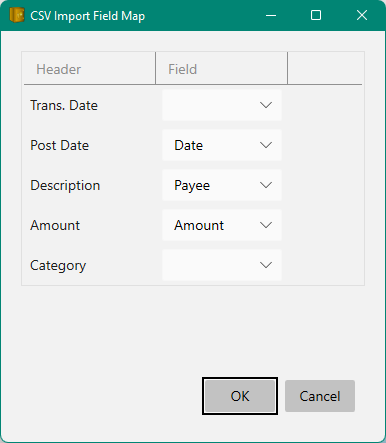
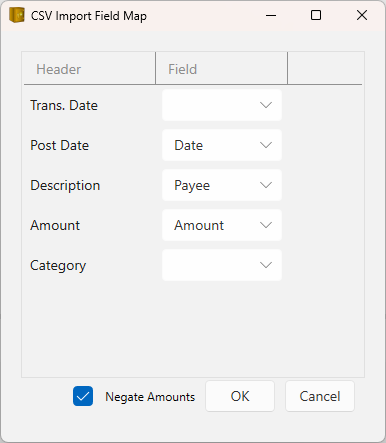
Feature: Add "Edit 8 Map..." menu item on account dialog context menu. Feature: Add "negate" button on Csv map dialog.

diff --git a/Source/WPF/MyMoney/View Selectors/AccountsControl.xaml b/Source/WPF/MyMoney/View Selectors/AccountsControl.xaml
@@ -84,6 +84,7 @@
         <CommandBinding  Command="local:AccountsControl.CommandExportAccount" Executed="OnExportAccount" CanExecute="CanExportAccount"/>
         <CommandBinding  Command="local:AccountsControl.CommandExportList" Executed="OnExportAccountList" />
         <CommandBinding  Command="local:AccountsControl.CommandImportCsv" Executed="OnImportAccountCsv" />
+        <CommandBinding  Command="local:AccountsControl.CommandEditCsvMapping" Executed="OnEditCsvMapping" CanExecute="HasCsvMapping" />
         <CommandBinding  Command="local:AccountsControl.CommandToggleClosedAccounts" Executed="OnToggleShowClosedAccounts" CanExecute="CanToggleShowClosedAccounts"/>
     </UserControl.CommandBindings>
 
@@ -118,12 +119,14 @@
                 <MenuItem AutomationProperties.AutomationId="ViewTransfersToThisAccount" Header="View _Transfers To This Account" Command="local:AccountsControl.CommandViewTransfers" />
                 <MenuItem AutomationProperties.AutomationId="Export" Header="E_xport Account..." Command="local:AccountsControl.CommandExportAccount"/>
                 <MenuItem AutomationProperties.AutomationId="ImportCsv" Header="_Import Csv..." Command="local:AccountsControl.CommandImportCsv"/>
+                <MenuItem AutomationProperties.AutomationId="EditCsvMapping" Header="Edit Csv _Mapping..." Command="local:AccountsControl.CommandEditCsvMapping"/>
+                
                 <Separator />
                 <MenuItem AutomationProperties.AutomationId="NewAccount" Header="_New Account..." Command="local:AccountsControl.CommandNewAccount" />
                 <MenuItem AutomationProperties.AutomationId="DownloadAccounts" Header="_Download Accounts..." Command="local:AccountsControl.CommandDownloadAccounts" />
                 <MenuItem AutomationProperties.AutomationId="NewLoan" Header="New _Loan..." Command="local:AccountsControl.CommandAddNewLoanAccount" />
                 <MenuItem AutomationProperties.AutomationId="DeleteAccount" Header="Delete _Account" Command="local:AccountsControl.CommandDeleteAccount" />
-                <MenuItem AutomationProperties.AutomationId="Export" Header="Ex_port List..." Command="local:AccountsControl.CommandExportList"/>
+                <MenuItem AutomationProperties.AutomationId="Export" Header="_Export List..." Command="local:AccountsControl.CommandExportList"/>
                 <Separator />
                 <MenuItem AutomationProperties.AutomationId="DisplayClosedAccounts" Name="MenuDisplayClosedAccounts" Header="Display _Closed Accounts" Command="local:AccountsControl.CommandToggleClosedAccounts"/>
             </ContextMenu>

diff --git a/Source/WPF/MyMoney/Dialogs/CsvImportDialog.xaml b/Source/WPF/MyMoney/Dialogs/CsvImportDialog.xaml
@@ -30,8 +30,13 @@
               Converter={StaticResource GridBackgroundAlternationConverter}}"/>
     </Style>
   </Window.Resources>
-  <DockPanel Margin="20">
-    <ListView x:Name="FieldListView" DockPanel.Dock="Top" ItemContainerStyle="{StaticResource AlternationItemStyle}"
+  <Grid Margin="20">
+    <Grid.RowDefinitions>
+      <RowDefinition Height="*"/>
+      <RowDefinition Height="Auto"/>
+      <RowDefinition Height="Auto"/>
+    </Grid.RowDefinitions>
+      <ListView x:Name="FieldListView" Grid.Row="0" ItemContainerStyle="{StaticResource AlternationItemStyle}"
               BorderThickness="1" BorderBrush="{DynamicResource GridLineBrush}"
               Background="Transparent" AlternationCount="2">
       <ListView.Resources>
@@ -66,15 +71,17 @@
                 </controls:FilteringComboBox >
               </DataTemplate>
             </GridViewColumn.CellTemplate>
-          </GridViewColumn>
+           </GridViewColumn>
         </GridView>
       </ListView.View>
     </ListView>
     <!-- OK or Cancel -->
-    <StackPanel Orientation="Horizontal" HorizontalAlignment="Right" VerticalAlignment="Bottom" DockPanel.Dock="Bottom" Margin="10,0,10,10">
+    <StackPanel Orientation="Horizontal" HorizontalAlignment="Right" VerticalAlignment="Bottom" Grid.Row="5" Margin="10,2,10,10">
+      <CheckBox Name="negateCheckBox" IsChecked="{Binding Negate}" MinWidth="32" />
+      <TextBlock Text="Negate Amounts" VerticalAlignment="Center" Margin="0,0,10,0"/>
       <Button Name="okButton" IsDefault="True" Margin="0,0,10,0" Click="OnOk">OK</Button>
       <Button Name="cancelButton" IsCancel="True" Click="OnCancel">Cancel</Button>
     </StackPanel>
-  </DockPanel>
+  </Grid>
 
 </d:BaseDialog>

diff --git a/Source/WPF/MyMoney/Utilities/CsvImporter.cs b/Source/WPF/MyMoney/Utilities/CsvImporter.cs
@@ -25,6 +25,8 @@ namespace Walkabout.Migrate
         [XmlIgnore]
         public string FileName { get; set; }
 
+        public bool Negate { get; set; }
+
         public List<CsvFieldMap> Fields { get; set; }
 
         public static CsvMap Load(string fileName)
@@ -164,6 +166,28 @@ namespace Walkabout.Migrate
             }
         }
 
+        public void EditCsvMap(IEnumerable<string> headers)
+        {
+            CsvImportDialog cd = new CsvImportDialog(this.fields);
+            cd.Owner = System.Windows.Application.Current.MainWindow;
+            if (headers != null)
+            {
+                cd.SetHeaders(headers);
+            }
+            else
+            {
+                cd.SetMap(this.map);
+            }
+            if (cd.ShowDialog() == true)
+            {
+                this.map.Save();
+            }
+            else
+            {
+                throw new UserCanceledException("User cancelled");
+            }
+        }
+
         public override void WriteHeaders(IEnumerable<string> headers)
         {
             if (this.HeadersMatch(headers))
@@ -171,17 +195,7 @@ namespace Walkabout.Migrate
                 // we're good!
                 return;
             }
-            CsvImportDialog cd = new CsvImportDialog(this.fields);
-            cd.Owner = System.Windows.Application.Current.MainWindow;
-            cd.SetHeaders(headers);
-            if (cd.ShowDialog() == true)
-            {
-                this.map.Fields = cd.Mapping;
-            }
-            else
-            {
-                throw new UserCanceledException("User cancelled");
-            }
+            this.EditCsvMap(headers);
         }
 
         private bool HeadersMatch(IEnumerable<string> headers)
@@ -222,7 +236,7 @@ namespace Walkabout.Migrate
                     var fm = this.map.Fields[col];
                     if (!string.IsNullOrEmpty(fm.Field))
                     {
-                        this.MapField(t, fm.Field, s);
+                        this.MapField(t, fm, s);
                     }
                 }
                 col++;
@@ -230,8 +244,9 @@ namespace Walkabout.Migrate
             this.typedData.Add(t);
         }
 
-        private void MapField(TBag t, string fieldName, string value)
+        private void MapField(TBag t, CsvFieldMap field, string value)
         {
+            string fieldName = field.Field;
             // matches this.fields.
             switch (fieldName)
             {
@@ -266,12 +281,14 @@ namespace Walkabout.Migrate
                     var match = numericRegex.Match(value);
                     if (match.Success && decimal.TryParse(match.Groups[1].Value, out decimal amount))
                     {
-                        if (this.account.Type == AccountType.Credit)
+                        if (map.Negate)
                         {
-                            // credit cards show payments as positive numbers (yeah positive for them!)
-                            amount = -amount;
+                            t.Amount = -amount;
                         }
-                        t.Amount = amount;
+                        else
+                        {
+                            t.Amount = amount;
+                        }
                     }
                     break;
             }
@@ -296,7 +313,7 @@ namespace Walkabout.Migrate
         public abstract void WriteHeaders(IEnumerable<string> headers);
 
         /// <summary>
-        /// Now that headers are estabilished and we know which column
+        /// Now that headers are established and we know which column
         /// maps to which field, we can import rows of data.
         /// </summary>
         /// <param name="values"></param>

diff --git a/Source/WPF/MyMoney/View Selectors/AccountsControl.xaml.cs b/Source/WPF/MyMoney/View Selectors/AccountsControl.xaml.cs
@@ -6,6 +6,7 @@ using System.ComponentModel;
 using System.Globalization;
 using System.IO;
 using System.Linq;
+using System.Security.Principal;
 using System.Windows;
 using System.Windows.Controls;
 using System.Windows.Input;
@@ -41,6 +42,7 @@ namespace Walkabout.Views.Controls
         public static RoutedUICommand CommandExportAccount;
         public static RoutedUICommand CommandExportList;
         public static RoutedUICommand CommandImportCsv;
+        public static RoutedUICommand CommandEditCsvMapping;
         public static RoutedUICommand CommandToggleClosedAccounts;
 
         static AccountsControl()
@@ -56,6 +58,7 @@ namespace Walkabout.Views.Controls
             CommandExportAccount = new RoutedUICommand("ExportAccount", "ExportAccount", typeof(AccountsControl));
             CommandExportList = new RoutedUICommand("ExportList", "ExportList", typeof(AccountsControl));
             CommandImportCsv = new RoutedUICommand("ImportCsv", "ImportCsv", typeof(AccountsControl));
+            CommandEditCsvMapping = new RoutedUICommand("EditCsv", "EditCsv", typeof(AccountsControl));
             CommandToggleClosedAccounts = new RoutedUICommand("ToggleClosedAccounts", "ToggleClosedAccounts", typeof(AccountsControl));
         }
 
@@ -1011,6 +1014,17 @@ namespace Walkabout.Views.Controls
             }
         }
 
+        private bool HasCsvMap()
+        {
+            Account a = this.SelectedAccount;
+            if (a != null)
+            {
+                var map = this.LoadMap(a);
+                return map.Fields != null && map.Fields.Count > 0;
+            }
+            return false;
+        }
+
         private CsvMap LoadMap(Account a)
         {
             if (this.databaseSettings != null)
@@ -1024,6 +1038,34 @@ namespace Walkabout.Views.Controls
                 return CsvMap.Load(filename);
             }
             return new CsvMap();
+        }
+
+        private void OnEditCsvMapping(object sender, ExecutedRoutedEventArgs e)
+        {
+            var account = this.SelectedAccount;
+            if (account != null)
+            {
+                try
+                {
+                    var map = this.LoadMap(account);
+                    var ti = new CsvTransactionImporter(this.myMoney, account, map);
+                    ti.EditCsvMap(null);
+                } 
+                catch (UserCanceledException)
+                {
+                    // do nothing.
+                }
+                catch (Exception ex)
+                {
+                    MessageBoxEx.Show(ex.Message, "Error Editing CSV Map", MessageBoxButton.OK, MessageBoxImage.Exclamation);
+                    return;
+                }
+            }
+        }
+
+        private void HasCsvMapping(object sender, CanExecuteRoutedEventArgs e)
+        {
+            e.CanExecute = this.SelectedAccount != null && this.HasCsvMap();
         }
     }
 

diff --git a/Source/WPF/MyMoney/Dialogs/CsvImportDialog.xaml.cs b/Source/WPF/MyMoney/Dialogs/CsvImportDialog.xaml.cs
@@ -1,4 +1,5 @@
-using System;
+using Newtonsoft.Json.Linq;
+using System;
 using System.Collections.Generic;
 using System.Linq;
 using System.Windows;
@@ -14,18 +15,25 @@ namespace Walkabout.Dialogs
     public partial class CsvImportDialog : BaseDialog
     {
         private readonly string[] fields;
-        private List<CsvFieldMap> map;
+        private CsvMap map = new CsvMap();        
 
         public CsvImportDialog(string[] expectedColumns)
         {
             this.InitializeComponent();
             this.fields = expectedColumns;
+            this.DataContext = this.map;
         }
 
         internal void SetHeaders(IEnumerable<string> headers)
         {
-            this.map = new List<CsvFieldMap>(from h in headers select new CsvFieldMap() { Header = h });
-            this.FieldListView.ItemsSource = this.map;
+            this.map.Fields = new List<CsvFieldMap>(from h in headers select new CsvFieldMap() { Header = h });
+            this.FieldListView.ItemsSource = this.map.Fields;
+        }
+
+        public bool Negate
+        {
+            get { return this.map.Negate; }
+            set { this.map.Negate = value; }
         }
 
         public string[] TransactionFields
@@ -36,7 +44,14 @@ namespace Walkabout.Dialogs
             }
         }
 
-        public List<CsvFieldMap> Mapping => this.map;
+        public CsvMap Mapping => this.map;
+
+        public void SetMap(CsvMap map)
+        {
+            this.map = map;
+            this.FieldListView.ItemsSource = this.map.Fields;
+            this.DataContext = this.map;
+        }
 
         private void OnCancel(object sender, RoutedEventArgs e)
         {
@@ -58,7 +73,7 @@ namespace Walkabout.Dialogs
             // check all fields are mapped.
             int count = 0;
             HashSet<string> unique = new HashSet<string>();
-            foreach (var f in this.map)
+            foreach (var f in this.map.Fields)
             {
                 if (!string.IsNullOrEmpty(f.Field))
                 {

diff --git a/Source/WPF/Version/Version.cs b/Source/WPF/Version/Version.cs
@@ -6,5 +6,5 @@ using System.Reflection;
 // And also sync this with the MSIX package manifest in
 // ~\MyMoney.Net\Source\WPF\MoneyPackage\Package.appxmanifest
 
-[assembly: AssemblyVersion("2.1.0.53")]
-[assembly: AssemblyFileVersion("2.1.0.53")]
+[assembly: AssemblyVersion("2.1.0.55")]
+[assembly: AssemblyFileVersion("2.1.0.55")]

diff --git a/docs/Accounts/CsvImport.md b/docs/Accounts/CsvImport.md
@@ -25,6 +25,8 @@ found in this file with the fields of the Money Transactions as follows:
 
 ![CsvImportMap](../Images/CsvImportMap.png)
 
+You should check negate CheckBox if your Credit Card Company returns withdrawals as positive numbers and deposits as negative numbers.
+
 This map will be saved in the same folder as your Money database under a new folder named `CsvMaps`
 so you will not have to keep re-entering this mapping information (unless the columns are changed by your bank).
 
